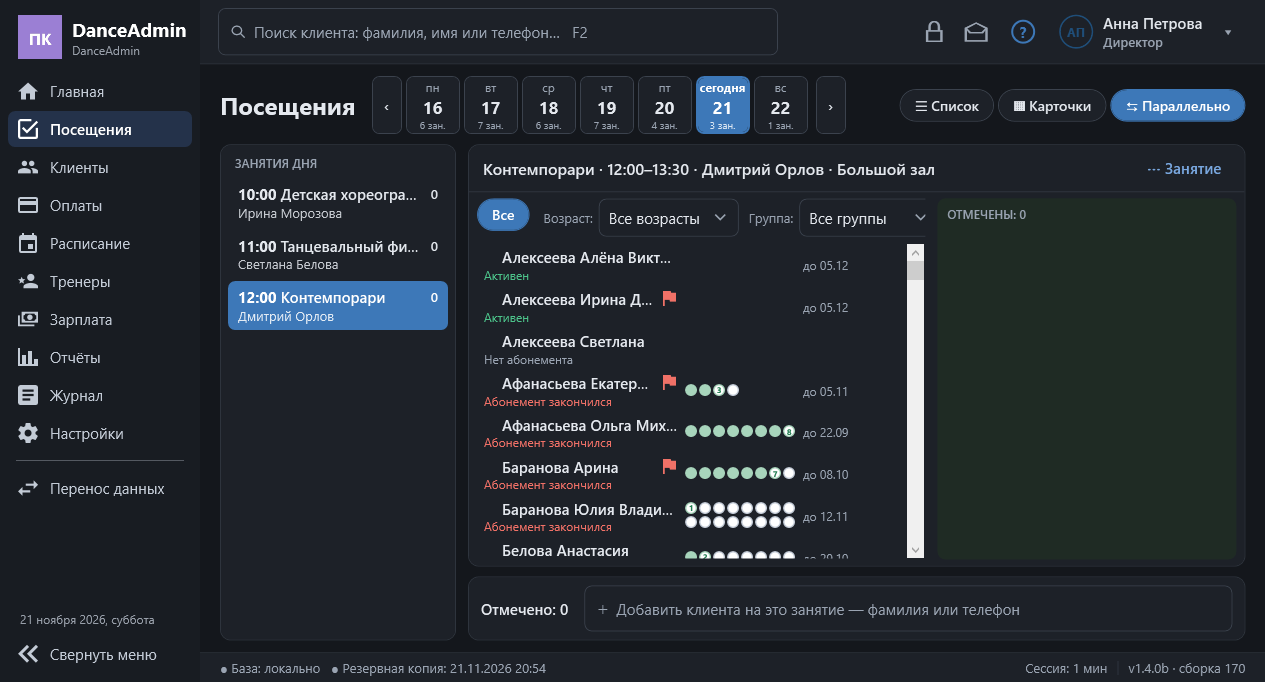
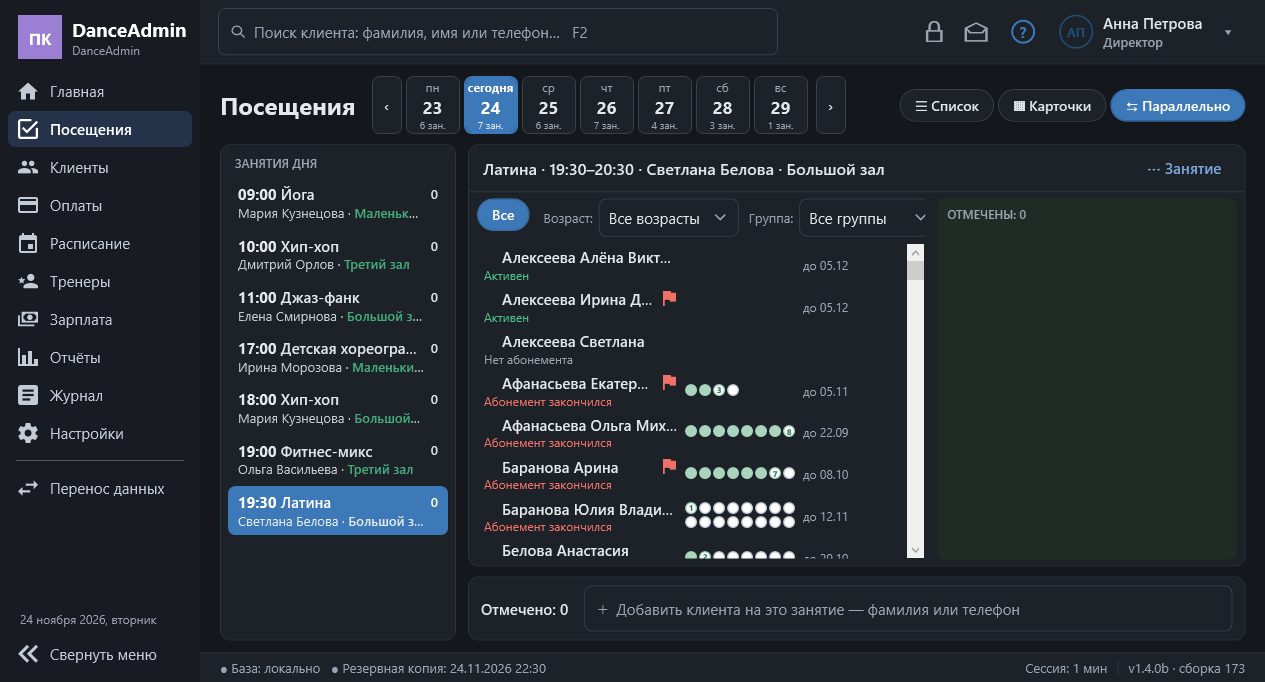
update v.1.4.0-beta.173

diff --git a/CHANGELOG.md b/CHANGELOG.md
@@ -2,6 +2,29 @@
 
 Формат версий: `Major.Minor.Patch.Build` (ТЗ §24).
 
+## 1.4.0b, сборка 173 — 24.11.2026
+
+Исправления по отчёту тестера (`CODEX_TESTER_REPORT_BUILD_172.md`):
+
+- **BUG-CODEX-001:** возврат с «Уменьшить число занятий на» отрицательным числом увеличивал абонемент (8 − (−2) = 10). `SalesService.Refund` принимает только 1 … неиспользованный остаток (больше остатка — ошибка, а не тихое обрезание до использованных); в окне возврата по умолчанию 1, проверка целого ≥ 1 до подтверждения, поле не длиннее 3 знаков.
+- **CS8602** в `ImportService` (клиенты): телефон после проверки сужен до не-null (`if (!ok || phone is null) return false`), поведение импорта не изменилось.
+
+## 1.4.0b, сборка 172 — 24.11.2026
+
+- **Снимок рабочего компьютера:** право роли `settings.snapshot` «Снимок рабочего компьютера» (`Perm.SettingsSnapshot`, подпункт «Настройки»): смотреть снимок может не только директор (`SnapshotMode.CanView`); сотрудник входит в снимок под своим логином (только просмотр), директор — директором. С этим правом в «Расширенных» и «Резервных копиях» видна только карточка снимка (`CanAdvancedAll` / `CanBackupAll`). Рабочий компьютер: в «Резервных копиях» только «Папка для снимков…» и «Сохранить снимок сейчас» (без папки неактивна). Кнопка «👁 Смотреть рабочий снимок» слева от замка (`MainVM.ShowViewSnapshot`: галочка + папка + право). В строке состояния — «Снимок: ЧЧ:ММ ⟳» (видна при выбранной папке, любой сотрудник сохраняет снимок сейчас; оранжевым — давно или ошибка, `SnapshotMode.LastSaveError`). В открытом снимке нет плашки «Режим „Только просмотр“…» в настройках. Пояснение к галочке — без «директора», про облако.
+- **Строка состояния:** все надписи по одной линии; черта между сменой сотрудника и «Сессией» у директора.
+- **Группы абонементов:** «типов: N» ровным столбиком (`SharedSizeGroup`), в подсказке типы — каждый с новой строки.
+- **Посещения → «Занятия дня»:** у занятия показан зал (зелёным, на выбранном — белым).
+- **Исправлено:** группа клиентов с фиксированными ценами при каждом открытии получала пустую строку «8 занятий / 1 мес.» (режим цены ставился до загрузки строк).
+
+## 1.4.0b, сборка 171 — 24.11.2026
+
+- **«Снимок рабочего компьютера»** (`SnapshotService`, `SnapshotMode`): рабочий компьютер сохраняет полную копию (`BackupService.WriteZip`) в папку как `DanceAdmin_снимок_ГГГГ-ММ-ДД_ЧЧ-ММ.zip` (через .tmp и переименование; хранятся 3) — при закрытии смены, при выходе, раз в час и кнопкой. Домашний компьютер (`snapshot.viewer`, «Расширенные», только директор) открывает самый новый снимок без перезапуска: распаковка в `snapshot/view-a|b`, `Svc.Init` на новый `Ctx`, вход директором из снимка в «Только просмотр», полоса «Снимок… — только просмотр» и «Вернуться к своей базе»; раз в минуту — новый снимок открывается сам. Блокировка и выход сначала возвращают к своей базе. Блок в «Резервных копиях» — только директору.
+- **Шаблон расписания:** «Действует с» в будущем — старый шаблон заканчивается накануне, с даты — новый (прежде будущие занятия до даты пропадали); правка «с сегодня» не сдвигает дату начала шаблона. Журнал: «…новое расписание действует с …», дни, время, направление, тренер, зал до и после.
+- **Экспорт / импорт:** подпункт справочников «Правила и ставки» (`ruleSettings`: ожидание старта, переход смены, округление, ставки администраторов, минимум тренеру; группа при продаже — по названию). Без «вместе с архивными» не выгружаются архивные залы, группы абонементов, группы клиентов, возрастные категории (кроме нужных выгружаемым клиентам / расписанию).
+- **Отчёт смены:** в отчётах до сборки 169 способ из примечания показывается в колонке «Способ» (`ReportSaleRow.MethodText` / `NoteText`), в т. ч. в тексте для Telegram.
+- **Настройки:** минимум тренеру — без галочки поле пустое и неактивное; «Отмечать без ограничения по времени» — выше минут, при галочке минуты пустые и неактивные; «Направления N» и «В архиве N»; неактивные группы абонементов — серым, «неактивна».
+
 ## 1.4.0b, сборка 170 — 22.11.2026
 
 Исправления по полной проверке тестировщиком (`tests/reports/tester-169.md`) и детали начислений.

diff --git a/RELEASE_NOTES.md b/RELEASE_NOTES.md
@@ -1,29 +1,26 @@
-# DanceAdmin 1.4.0b (сборка 170) — бета
+# DanceAdmin 1.4.0b (сборка 173) — бета
 
 Предварительный выпуск (Pre-release). Последний обычный выпуск — 1.3.0 (сборка 168): если нужна проверенная версия, берите его.
 
 **Скачать:**
-- `DanceAdmin_Setup_1.4.0b-170.exe` — установщик (рекомендуется);
-- `DanceAdmin_1.4.0b-170_portable.zip` — переносная версия, без установки (exe, лицензия, руководство).
+- `DanceAdmin_Setup_1.4.0b-173.exe` — установщик (рекомендуется);
+- `DanceAdmin_1.4.0b-173_portable.zip` — переносная версия, без установки (exe, лицензия, руководство).
 
 Windows 10/11 x64, .NET внутри. Данные — в `C:\ProgramData\DanceAdmin\`. Установка поверх прежней версии сохраняет базу (перед обновлением делается резервная копия).
 
-## Что нового по сравнению с 1.3.0
-- **Отметка без ограничения по времени** (Настройки → Расширенные): по желанию клиента можно отметить в любой момент, в том числе на прошлом занятии, если забыли.
-- **Блокировка программы:** замок вверху справа и Ctrl+L — вход по паролю, смена не закрывается.
-- **Зарплата тренеров:** коррекция ставки для тренера (± % или ± ₽), минимальная оплата за занятие (доплата пересчитывается при доотметке), щелчок по строке истории начислений показывает детали: кто отмечен, ставки, доплата. Новые права «Тренеры → Изменение зарплаты».
-- **Отчёт смены:** колонка «Способ» (наличные, карта, перевод, с баланса) у абонементов и зарплаты.
-- **Справочники:** архив типов абонементов («Переместить в архив», «Вернуть из архива», удалить можно только никем не купленный тип); у групп абонементов — подсказка со списком типов.
-- **Назначения расходов** настраиваются в «Расширенных».
-- «● сейчас» на главной — только пока занятие идёт; кнопка «Аренда зала» на главной.
+## Что нового по сравнению с бетой 170
+- **Снимок рабочего компьютера:** рабочий компьютер сохраняет полную копию в папку (удобно — в облаке) при закрытии смены, при выходе и раз в час; на другом компьютере её открывают только для просмотра — без перезапуска и пароля, новый снимок открывается сам. Кнопка «Смотреть рабочий снимок» вверху, «Снимок: ЧЧ:ММ ⟳» в строке внизу — сохранить снимок сейчас может любой сотрудник. Смотреть — директор и роли с новым правом «Снимок рабочего компьютера».
+- **Расписание:** изменение шаблона с будущей даты — до неё действует прежнее расписание; в журнале видно, с какой даты новое и что поменялось.
+- **Экспорт и импорт** переносят «Правила и ставки» и минимальную оплату тренеру; архивные залы и группы без галочки «вместе с архивными» не выгружаются.
+- **Посещения:** в «Занятиях дня» виден зал.
+- **Настройки:** минимум тренеру и минуты отметки пустые и неактивные, когда выключены; число направлений; неактивные группы абонементов — серым; «типов: N» у групп — столбиком, в подсказке типы с новой строки.
+- Строка состояния внизу — все надписи на одной линии, с разделителями.
 
 ## Исправления
-- Долг клиента после аннулирования оплаты с переплатой считается верно.
-- Автоблокировка при простое снова срабатывает.
-- В истории тренера «За период: начислено» учитывает доплату до минимума.
-- Права ролей: щелчок по «квадратику» группы отмечает все подпункты.
-- В режиме «Только просмотр» окна изменений не открываются и объясняют почему.
-- Помощник исправляет опечатки и в словах-примерах; мелкие исправления надписей.
+- Возврат с «Уменьшить число занятий на» принимает только число от 1 до оставшихся занятий (отрицательное число добавляло занятия).
+- В группе клиентов с ценами больше не появляется пустая строка цены.
+- В старых отчётах смены способ оплаты показывается в колонке «Способ», а не в примечании.
+- Правка шаблона «с сегодня» больше не сдвигает дату начала шаблона.
 
 ## Важно
 - Бета приходит в программе только тем, у кого в «О программе» отмечено «Сообщать о бета-версиях».
